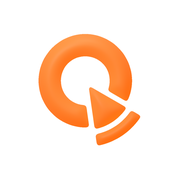
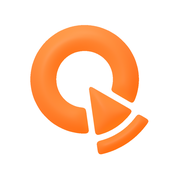
feat(brand): 앱 아이콘 안 심볼을 폭 72%로 키움 + design, spec 갱신
Claude-Session: https://claude.ai/code/session_011XUPzQwUTy2QBAmKAmrj3h

Changed region(s): [[0.1667, 0.1389, 0.8333, 0.8611], [0.5, 0.4722, 0.5278, 0.5]]

diff --git a/scripts/brand-icons/build.py b/scripts/brand-icons/build.py
@@ -31,6 +31,7 @@ def flat(size, frac, ss=8):
 
 MASTER = os.path.join(os.path.dirname(__file__), '3d-master.png')   # 심볼 폭 = 캔버스의 62%, 투명 바탕
 MASTER_FRAC = 0.62
+ICON_FRAC = 0.72   # 앱 아이콘 안 심볼 폭(Android 적응형 전경은 안전 영역 때문에 따로 62%)
 
 def sym3d(size, frac):
     """3D 원본을 심볼 폭이 size*frac가 되게 줄여 size×size 투명 캔버스 가운데에"""
@@ -50,14 +51,14 @@ def main():
     if '--render' in sys.argv or not os.path.exists(MASTER):
         import subprocess
         subprocess.run([sys.executable, os.path.join(os.path.dirname(__file__), 'blender_scene.py'), MASTER], check=True)
-    icon = on_white(sym3d(1024, 0.62))
+    icon = on_white(sym3d(1024, ICON_FRAC))
     icon.save(os.path.join(B, 'app-icon.png'), optimize=True)
     icon.save(p('apps/desktop/build/icon.png'), optimize=True)
     icon.resize((180, 180), Image.LANCZOS).save(os.path.join(B, 'apple-touch-icon.png'), optimize=True)
     # Mac: 흰 둥근 사각 판(824px, 그림자 포함)은 기존 파일 그대로, 가운데 심볼만 바꿈
     mac = Image.open(os.path.join(B, 'app-icon-macos.png')).convert('RGBA')
     ImageDraw.Draw(mac).rectangle((200, 180, 830, 850), fill=(255, 255, 255, 255))
-    sym = sym3d(1024, 0.62 * 824 / 1024)
+    sym = sym3d(1024, ICON_FRAC * 824 / 1024)
     mac.alpha_composite(sym); mac.save(os.path.join(B, 'app-icon-macos.png'), optimize=True)
     sym3d(512, 0.84).save(os.path.join(B, 'symbol.png'), optimize=True)
     for n in (32, 48):

diff --git a/docs/spec/04-brand.md b/docs/spec/04-brand.md
@@ -63,7 +63,7 @@
 
 **앱 아이콘**
 
-- 파이 차트: 두꺼운 원 고리(`brand` #FF6F0F)와 오른쪽 아래로 빠져나온 파이 조각 하나. 조각은 끝이 원 가운데를 향한 삼각형 몸통과 틈 뒤 둥근 크러스트 띠. 고리, 몸통, 크러스트 모두 `brand` 한 색이고 흰 틈으로만 나뉨. 틈은 작게 줄여도 보이게 넓게(심볼 좌표 80, 고리 바깥 반지름 694 기준), 크러스트 두께 170. 앱 아이콘 계열(app-icon, app-icon-macos, apple-touch, symbol.png, og)은 말랑 점토 3D(Blender 렌더): 둥근 모서리와 둥근 단면, 반무광. 그늘은 브랜드 색(#FF6F0F) 그대로이고 왼쪽 위 빛을 받는 곳만 밝은 살구빛으로 올라감(검정·갈색 음영과 바닥 그림자 없음). 흰 바탕. 심볼은 폭의 62%(Android 안전 영역 안), 바운딩 박스 가운데. 파비콘(16~48px)과 symbol.svg는 같은 형상의 평면 한 색. 모두 `scripts/brand-icons/build.py`가 형상 수치에서 만듦(3D는 `blender_scene.py`, AI로 다시 그리지 않음). 글자 없음. 뜻: 둘이 함께 키운 자산파이에서 떼어 낸 한 조각
+- 파이 차트: 두꺼운 원 고리(`brand` #FF6F0F)와 오른쪽 아래로 빠져나온 파이 조각 하나. 조각은 끝이 원 가운데를 향한 삼각형 몸통과 틈 뒤 둥근 크러스트 띠. 고리, 몸통, 크러스트 모두 `brand` 한 색이고 흰 틈으로만 나뉨. 틈은 작게 줄여도 보이게 넓게(심볼 좌표 80, 고리 바깥 반지름 694 기준), 크러스트 두께 170. 앱 아이콘 계열(app-icon, app-icon-macos, apple-touch, symbol.png, og)은 말랑 점토 3D(Blender 렌더): 둥근 모서리와 둥근 단면, 반무광. 그늘은 브랜드 색(#FF6F0F) 그대로이고 왼쪽 위 빛을 받는 곳만 밝은 살구빛으로 올라감(검정·갈색 음영과 바닥 그림자 없음). 흰 바탕. 심볼은 아이콘 폭의 72%, 바운딩 박스 가운데. Android 적응형 아이콘은 가운데 66%만 안전해서 전경을 따로 폭 62%로 만듦(모바일 앱 아이콘 작업 때). 파비콘(16~48px)과 symbol.svg는 같은 형상의 평면 한 색. 모두 `scripts/brand-icons/build.py`가 형상 수치에서 만듦(3D는 `blender_scene.py`, AI로 다시 그리지 않음). 글자 없음. 뜻: 둘이 함께 키운 자산파이에서 떼어 낸 한 조각
 - 파일(디자인 시스템 Brand): app-icon.png(1024, 흰 바탕, 무광 3D, 그림 정가운데), app-icon-macos.png(Mac 독용), symbol.png(같은 3D 파이 차트, 바탕 없음 512), favicon-32/48.png(평면 파이 차트), apple-touch-icon.png(180)
 - 상태: 확정(2026-10-18 케이크 조각에서 파이 차트로 교체, 2026-10-25 브랜드 오렌지 한 색으로). 설치 파일용 .icns와 .ico, macOS 트레이 템플릿(한 색 실루엣)은 개발할 때 만듦
 
@@ -84,7 +84,7 @@
 | --- | --- |
 | macOS 앱 아이콘 | app-icon-macos.png: 파이 차트, 둥근 사각형과 여백, 그림자를 파일에 넣음(1024 캔버스에 824 둥근 사각). .icns, 16\~1024px(개발할 때 app-icon-macos.png로 만듦) |
 | Windows 앱 아이콘 | 파이 차트. .ico, 16·24·32·48·64·256px(개발할 때 만듦) |
-| 모바일·스토어 앱 아이콘 | app-icon.png: 말랑 점토 3D 파이 차트, 흰 바탕, 그림자 없음, 그림 정가운데(폭 62%, Android 안전 영역 안), 1024px 꽉 찬 정사각형(모서리는 iPhone과 Android가 깎음) |
+| 모바일·스토어 앱 아이콘 | app-icon.png: 말랑 점토 3D 파이 차트, 흰 바탕, 그림자 없음, 그림 정가운데(폭 72%, Android 적응형 전경은 따로 62%), 1024px 꽉 찬 정사각형(모서리는 iPhone과 Android가 깎음) |
 | 트레이(메뉴 막대) 아이콘 | 심볼(symbol.png, 파이 차트), 16·32px. macOS 메뉴 막대용 템플릿(한 색 실루엣)은 개발할 때 만듦 |
 | 웹 파비콘(웹사이트, 어드민) | favicon-32/48.png(파이 차트), apple-touch-icon.png 180px(앱 아이콘과 같음) |
 | 모바일 앱 실행 화면(스플래시) | 흰 바탕 가운데 심볼(symbol.png), 다크는 surface 다크 바탕. 글자 없음 |

diff --git a/docs/design/assets/Brand.md b/docs/design/assets/Brand.md
@@ -5,7 +5,7 @@
 - `logo-cherry.svg`: 워드마크 기본(`brand` #FF6F0F, 심볼 원 고리 색). 흰 바탕과 다크 바탕 모두. T와 w 사이는 다른 글자 사이와 같은 간격.
 - `logo-white.svg`: 오렌지 바탕이나 사진 위.
 - `logo-black.svg`: 한 가지 색만 되는 인쇄물.
-- 앱 아이콘 그림: 파이 차트: 두꺼운 원 고리(`brand` #FF6F0F)와 오른쪽 아래로 빠져나온 파이 조각 하나. 조각은 끝이 원 가운데를 향한 삼각형 몸통과 틈 뒤 둥근 크러스트 띠. 고리, 몸통, 크러스트 모두 `brand` 한 색이고 흰 틈으로만 나뉨. 틈은 작게 줄여도 보이게 넓게(심볼 좌표 80, 고리 바깥 반지름 694 기준), 크러스트 두께 170. 앱 아이콘 계열(app-icon, app-icon-macos, apple-touch, symbol.png, og)은 말랑 점토 3D(Blender 렌더): 둥근 모서리와 둥근 단면, 반무광. 그늘은 브랜드 색(#FF6F0F) 그대로이고 왼쪽 위 빛을 받는 곳만 밝은 살구빛으로 올라감(검정·갈색 음영과 바닥 그림자 없음). 흰 바탕. 심볼은 폭의 62%(Android 안전 영역 안), 바운딩 박스 가운데. 파비콘(16~48px)과 symbol.svg는 같은 형상의 평면 한 색. 모두 `scripts/brand-icons/build.py`가 형상 수치에서 만듦(3D는 `blender_scene.py`, AI로 다시 그리지 않음). 글자 없음.
+- 앱 아이콘 그림: 파이 차트: 두꺼운 원 고리(`brand` #FF6F0F)와 오른쪽 아래로 빠져나온 파이 조각 하나. 조각은 끝이 원 가운데를 향한 삼각형 몸통과 틈 뒤 둥근 크러스트 띠. 고리, 몸통, 크러스트 모두 `brand` 한 색이고 흰 틈으로만 나뉨. 틈은 작게 줄여도 보이게 넓게(심볼 좌표 80, 고리 바깥 반지름 694 기준), 크러스트 두께 170. 앱 아이콘 계열(app-icon, app-icon-macos, apple-touch, symbol.png, og)은 말랑 점토 3D(Blender 렌더): 둥근 모서리와 둥근 단면, 반무광. 그늘은 브랜드 색(#FF6F0F) 그대로이고 왼쪽 위 빛을 받는 곳만 밝은 살구빛으로 올라감(검정·갈색 음영과 바닥 그림자 없음). 흰 바탕. 심볼은 아이콘 폭의 72%, 바운딩 박스 가운데. Android 적응형 아이콘은 가운데 66%만 안전해서 전경을 따로 폭 62%로 만듦(모바일 앱 아이콘 작업 때). 파비콘(16~48px)과 symbol.svg는 같은 형상의 평면 한 색. 모두 `scripts/brand-icons/build.py`가 형상 수치에서 만듦(3D는 `blender_scene.py`, AI로 다시 그리지 않음). 글자 없음.
 - `app-icon.png`: 앱 아이콘 원본(1024px, 꽉 찬 정사각형, 흰 바탕). iOS·Android는 이 파일을 줄여서 씀. 모서리는 각 OS가 깎음.
 - `app-icon-macos.png`: Mac 독용(1024px). Mac은 모서리를 깎아 주지 않아 둥근 사각형(824px), 여백, 그림자를 파일에 넣음.
 - `symbol.svg`: 평면 심볼 벡터(한 색 #FF6F0F, 호 3개). 형상 원본은 `scripts/brand-icons/geom.py`의 수치.
